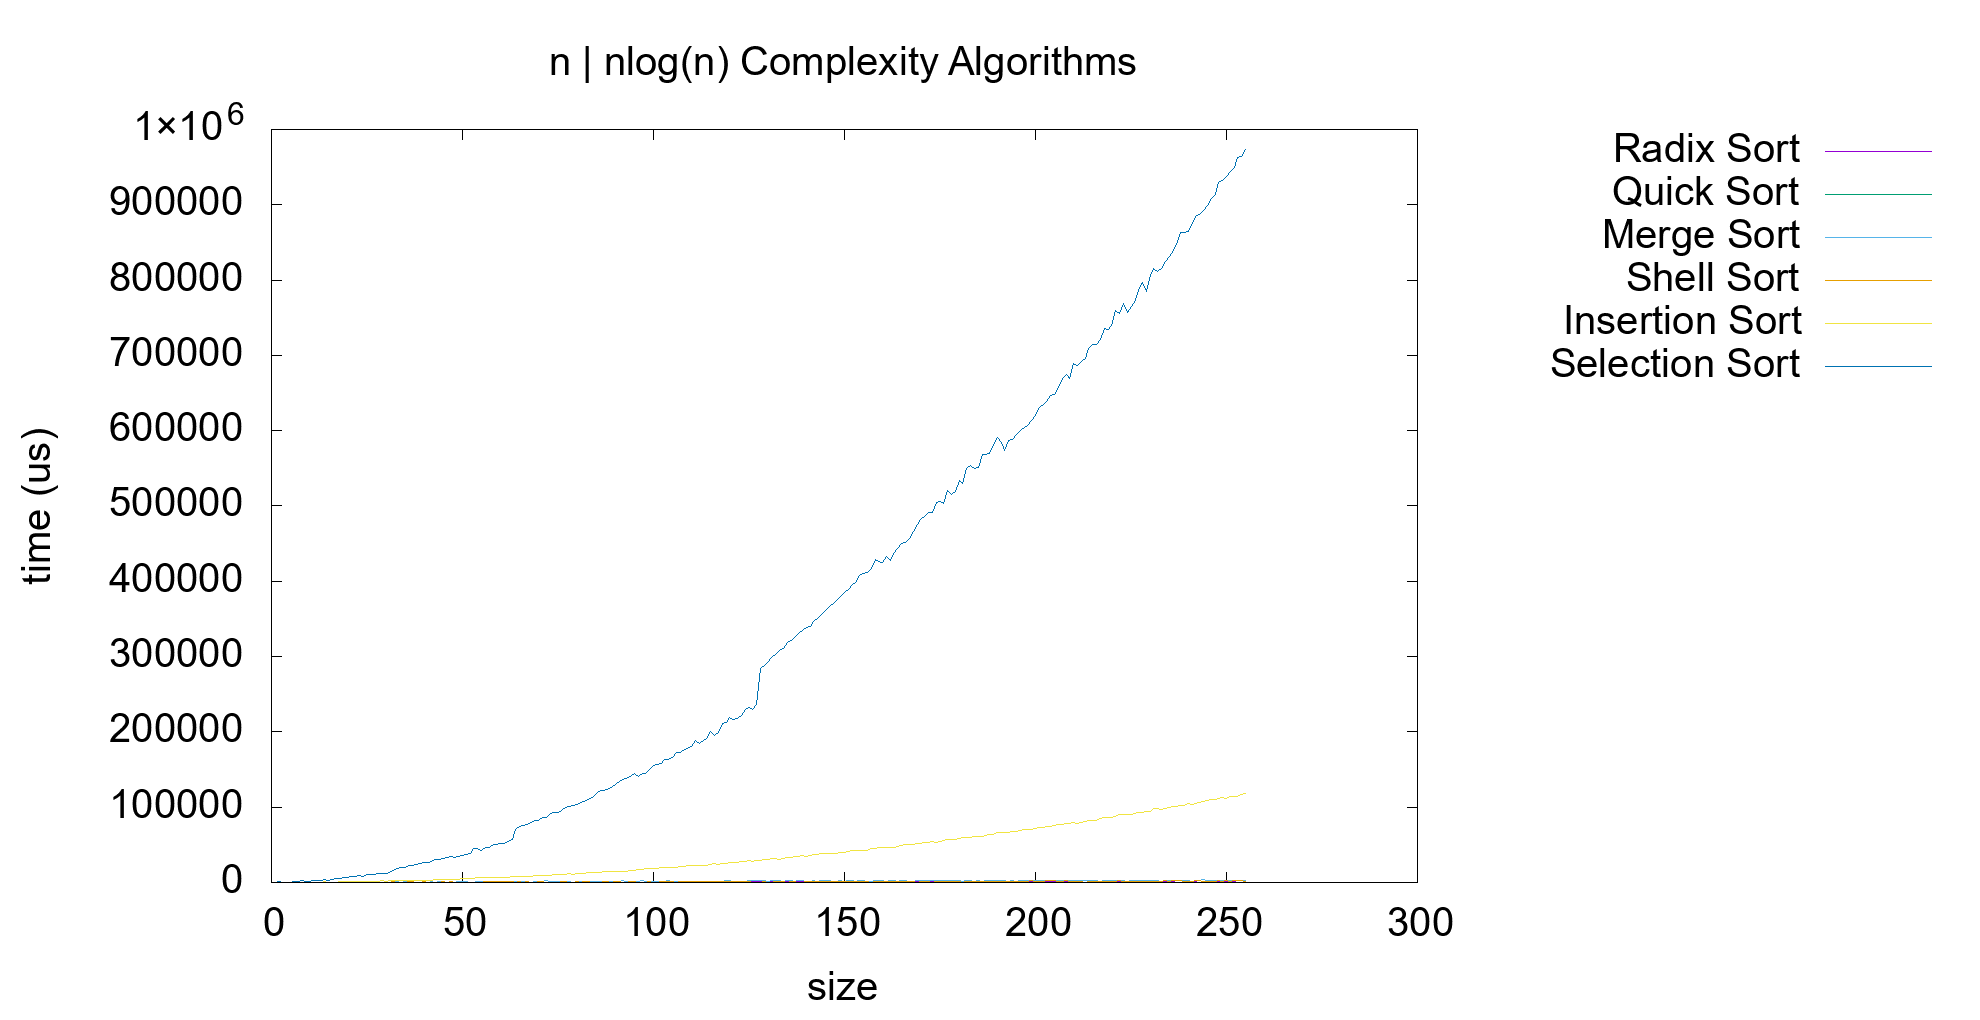
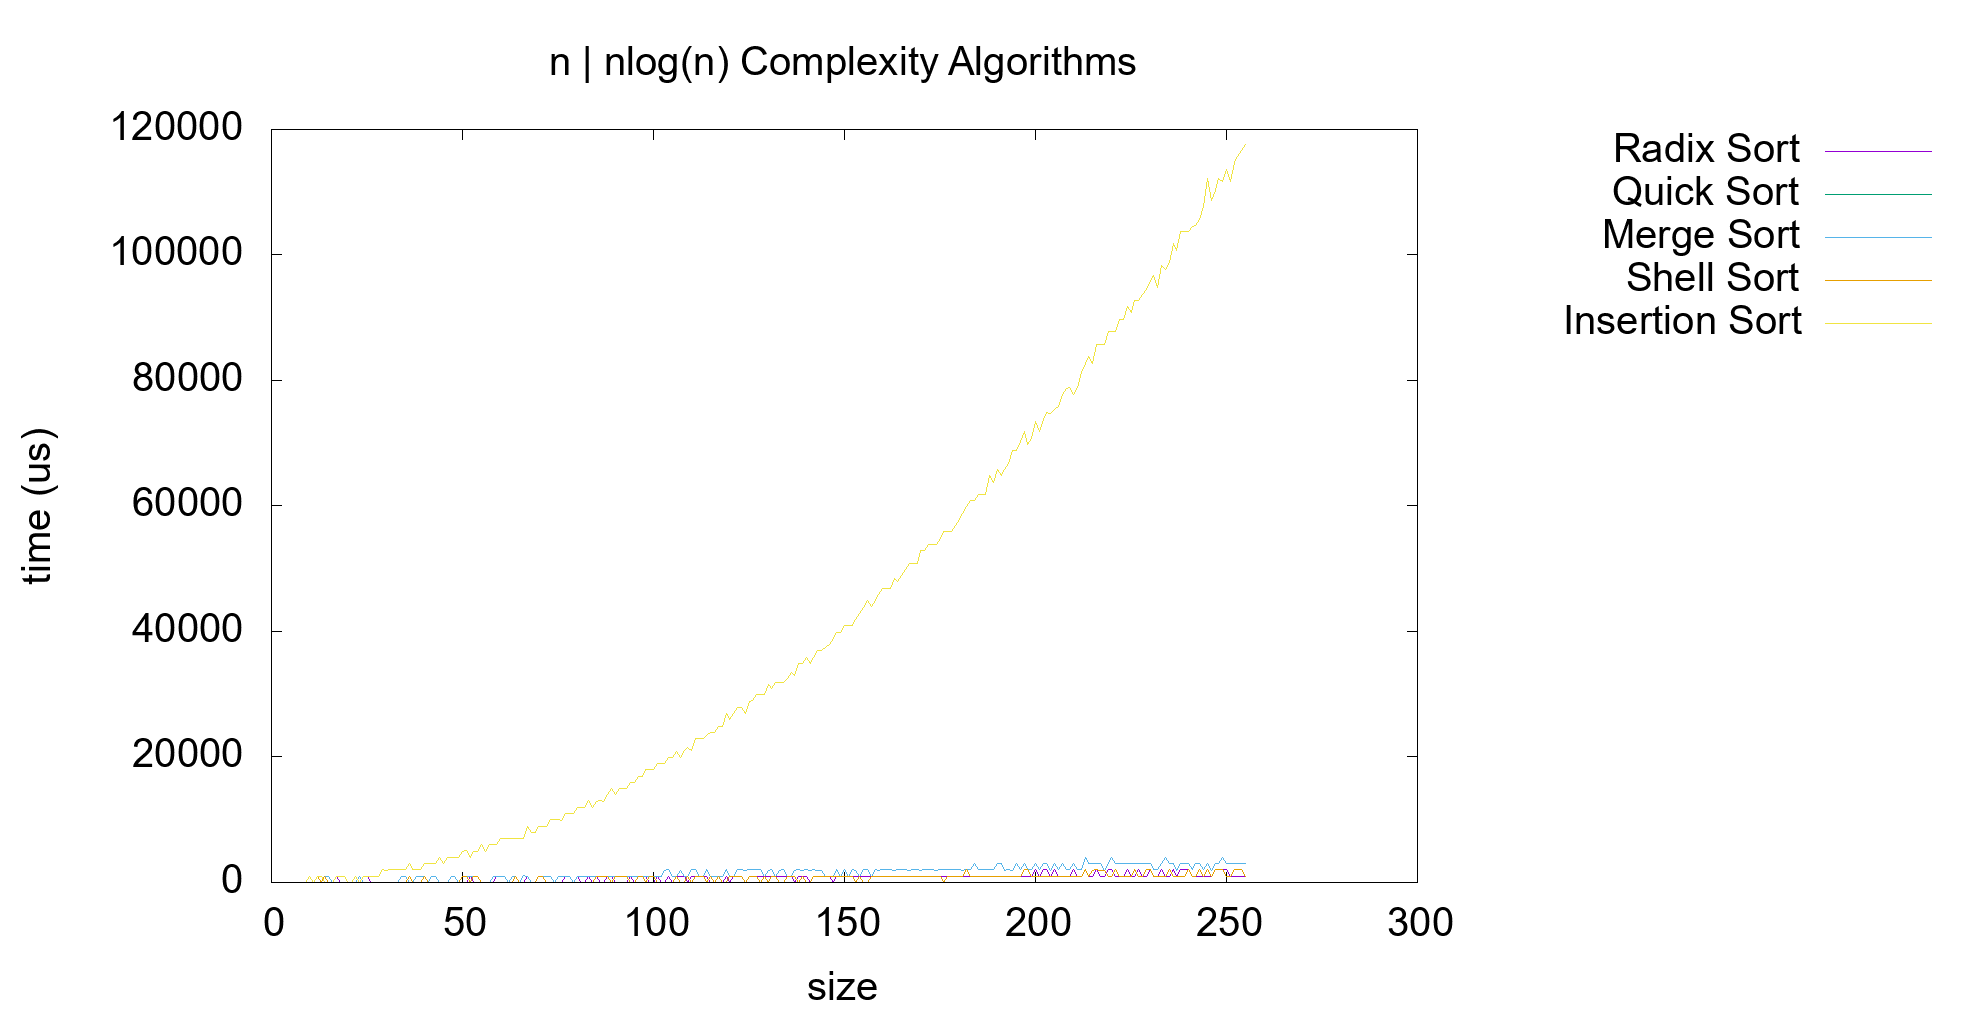
fixed swap bug with selection sort, more efficient to swap first and smallest rather than push smallest to first

diff --git a/selection.c b/selection.c
@@ -6,10 +6,9 @@ void selection_sort(int *arr, int size)
 	{
 		int index;
 		smallest(arr, element, size - 1, &index);
-
+		
 		// move smallest element to front of array
-		for (int i = index; i > 0 ; --i)
-			swap(&arr[i], &arr[i - 1]);
+		swap(&arr[element], &arr[index]);
 	}
 }
 
